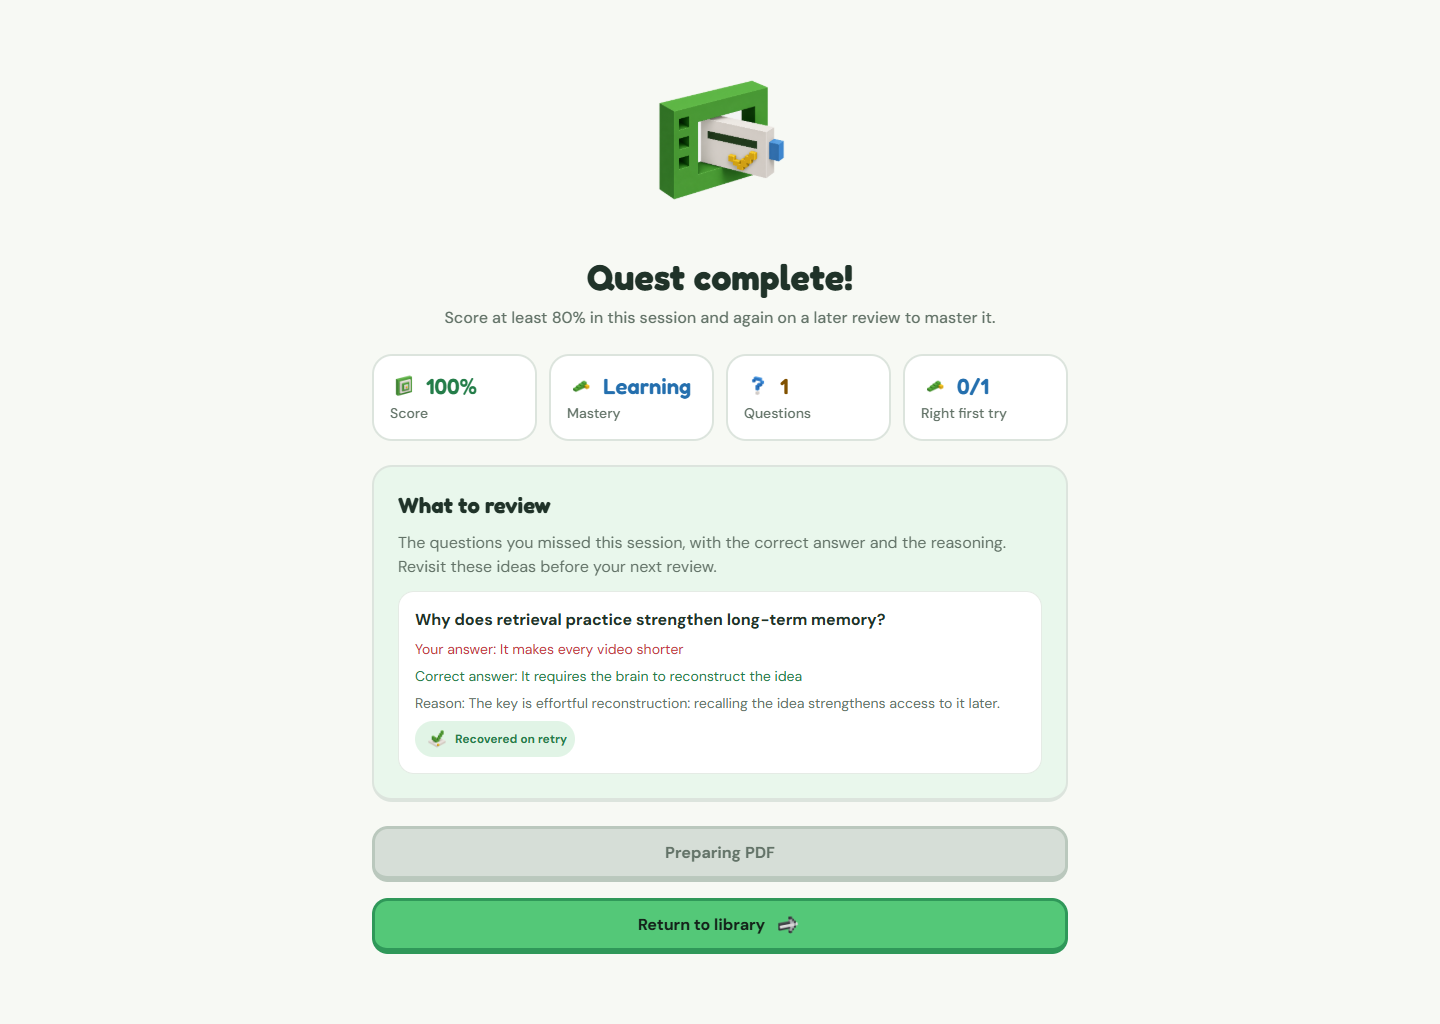
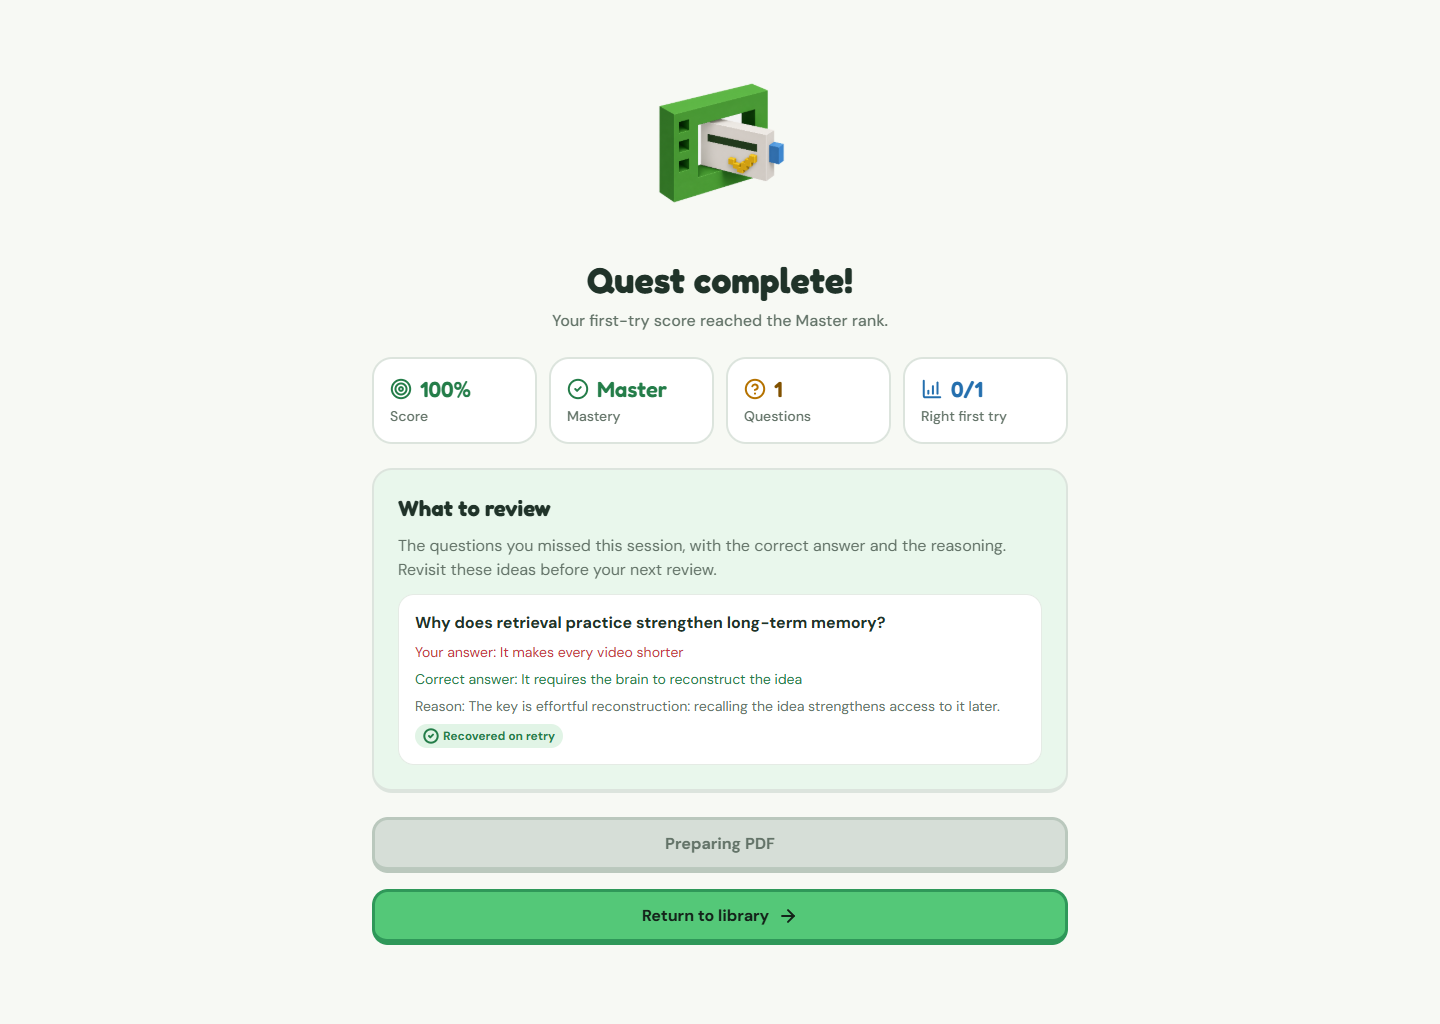
fix: make CI green after merging main
- e2e: the answer mock returned the retired "learning" mastery state, which
  main replaced with rank values; derive the rank from the score with
  masteryStateForScore so the recap journey no longer fails client-side
  schema validation.
- extension: writeZipArchive resolved relative paths verbatim, so the
  backslash-separator test read a literal 'pkg\manifest.json' on Linux;
  resolve through the split segments on every platform.
- playwright: give the web server six minutes to start under CI instead of
  two, since a cold Metro bundle on a 2-vCPU runner can exceed the local budget.
- docs: regenerate the completion-recap screenshot against the merged UI.

diff --git a/e2e/clipquest.spec.ts b/e2e/clipquest.spec.ts
@@ -1,5 +1,6 @@
 import { expect, test, type Page, type Route } from "@playwright/test";
 import {
+  masteryStateForScore,
   DEFAULT_QUIZ_QUESTION_TYPES,
   createTranscriptCompleteness,
   type GenerationRecordV2,
@@ -2475,6 +2476,7 @@ async function installMocks(page: Page): Promise<Scenario> {
     if (path.endsWith("/answer") && path.includes("/api/attempts/")) {
       scenario.answerBodies.push(request.postDataJSON());
       const completed = scenario.completeOnAnswer;
+      const score = completed ? (scenario.answerCorrect ? 100 : 0) : null;
       // Mirror the API's canonical-answer shape per question type: option
       // index, boolean, item order, or the rubric's model answer string.
       const correctAnswer =
@@ -2505,8 +2507,8 @@ async function installMocks(page: Page): Promise<Scenario> {
               ? null
               : nextQuestion,
         completed,
-        score: completed ? (scenario.answerCorrect ? 100 : 0) : null,
-        mastery: completed ? "learning" : null,
+        score,
+        mastery: score === null ? null : masteryStateForScore(score),
         generation: generation(),
       });
       return;

diff --git a/playwright.config.ts b/playwright.config.ts
@@ -25,7 +25,9 @@ export default defineConfig({
     command: "npm run web:e2e -w @clipquest/app",
     url: baseURL,
     reuseExistingServer: process.env.PLAYWRIGHT_REUSE_SERVER === "1",
-    timeout: 120_000,
+    // A cold Metro web bundle on a 2-vCPU CI runner can exceed the local
+    // two-minute budget; give the dev server more headroom there.
+    timeout: process.env.CI ? 360_000 : 120_000,
     env: {
       ...process.env,
       CI: "1",
